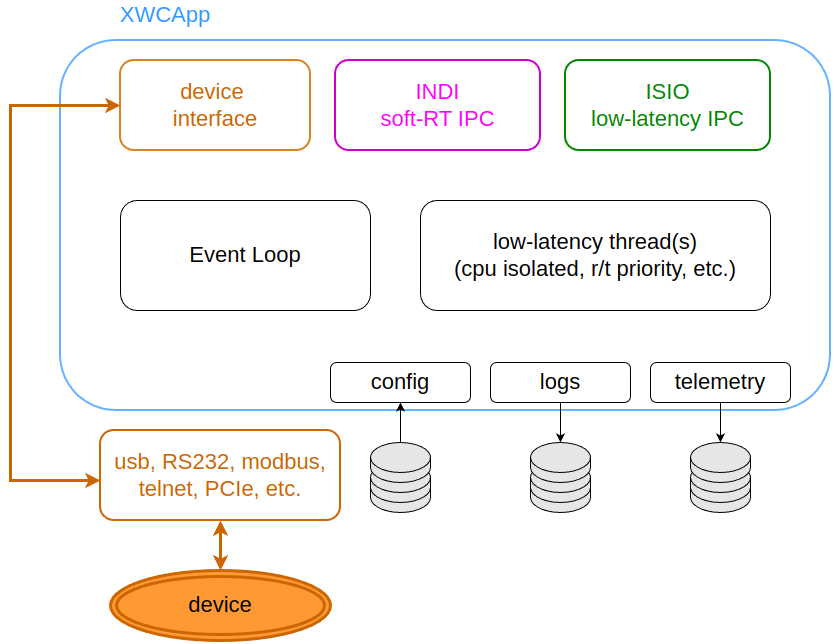
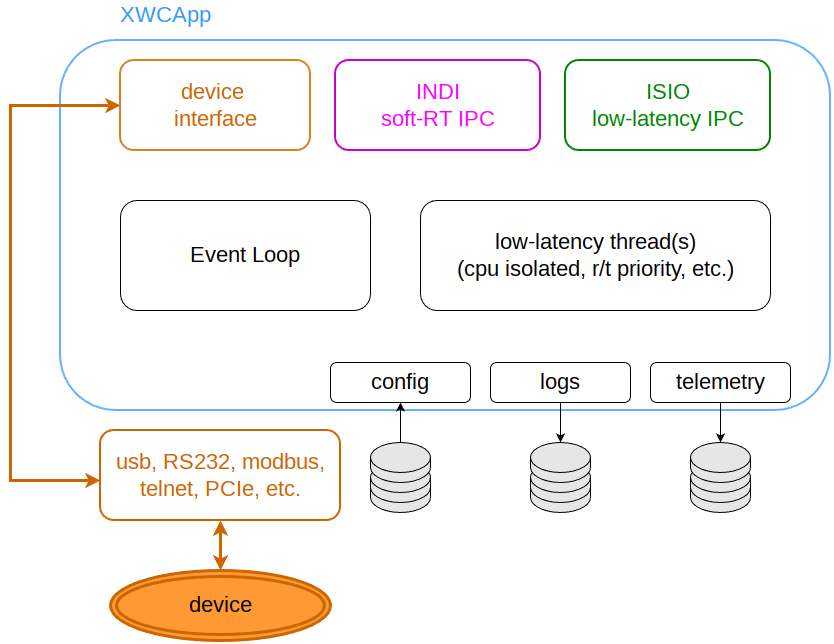
updated docs

diff --git a/libMagAOX/app/MagAOXApp.hpp b/libMagAOX/app/MagAOXApp.hpp
@@ -1,11 +1,7 @@
 /** \file magAOXApp.hpp
- * \brief The basic MagAO-X Application
- * \author Jared R. Males (jaredmales@gmail.com)
- *
- * History:
- * - 2017-12-24 created by JRM
- *
- * \ingroup app_files
+ *  \brief The basic MagAO-X Application
+ *  \author Jared R. Males (jaredmales@gmail.com)
+ *  \ingroup app_files
  */
 
 #ifndef app_MagAOXApp_hpp
@@ -53,8 +49,53 @@ namespace MagAOX
 namespace app
 {
 
-/// The base-class for MagAO-X applications.
+/// The base-class for XWCTk applications.
 /**
+ * This class implements the standard logic for an XWCTk application, including PID locking,
+ * privilege management, configuration, logging, INDI communications, and a finite state machine (FSM).
+ *
+ * A typical XWCApp is the interface to a single piece of hardware, such as a camera or a filter wheel.
+ * Through various optional CRTP base classes, many different standard functionalities can be included.
+ * The following figure illustrates the facilities provided by a typical app.
+ *
+ * \image html xwcapp.png "Block diagram of a typical XWCApp. Note that ImageStreamIO (ISIO) is not included by default, but there are several ways to interface with 'image streams' provided in XWCTk.  Many different hardware device interfaces are similarly provided."
+ *
+ * This class is inherited using standard virtual inheritance. The virtual interface consists of the
+ * following functions:
+ *
+ * \code
+ *     /// Setup the configuration system (called by MagAOXApp::setup())
+ *     virtual void setupConfig();
+ *
+ *     /// load the configuration system results (called by MagAOXApp::setup())
+ *     virtual void loadConfig();
+ *
+ *     /// Startup functions
+ *
+ *     /// Sets up the INDI vars, starts any threads, and other preparatory tasks.
+ *     virtual int appStartup();
+ *
+ *     /// Implementation of the FSM specific to the application
+ *     virtual int appLogic();
+ *
+ *     /// Implementation of the on-power-off logic (called once on change to POWEROFF)
+ *     virtual int onPowerOff();
+ *
+ *     /// Implementation of the while-powered-off logic (called every loop while powered off)
+ *     virtual int whilePowerOff();
+ *
+ *     /// Do any needed shutdown tasks.
+ *     virtual int appShutdown();
+ *
+ * \endcode
+ *
+ * The following figure illustrates the logic of the XWCApp FSM.
+ *
+ * \image html xwcapp_fsm.png "The XWCApp FSM. The blue sequence highlights the normal 'appLogic' loop."
+ *
+ * Standard configurable options are set in \ref setupBasicConfig().  See either the source code for that function
+ * or run an application with `-h`.
+ *
  * You can define a base configuration file for this class by defining
  * \code
  *     m_configBase = "base_name";

diff --git a/apps/stateRuleEngine/stateRuleEngine.md b/apps/stateRuleEngine/stateRuleEngine.md
@@ -1,3 +1,4 @@
+\ingroup stateRuleEngine
 # State Rule Engine
 
 This document describes the configuration and operation of the state rule engine, `stateRuleEngine`, which is designed to provide a system for evaluating the state of MagAO-X to provide user feedback when the system is not in the correct state for observations.
